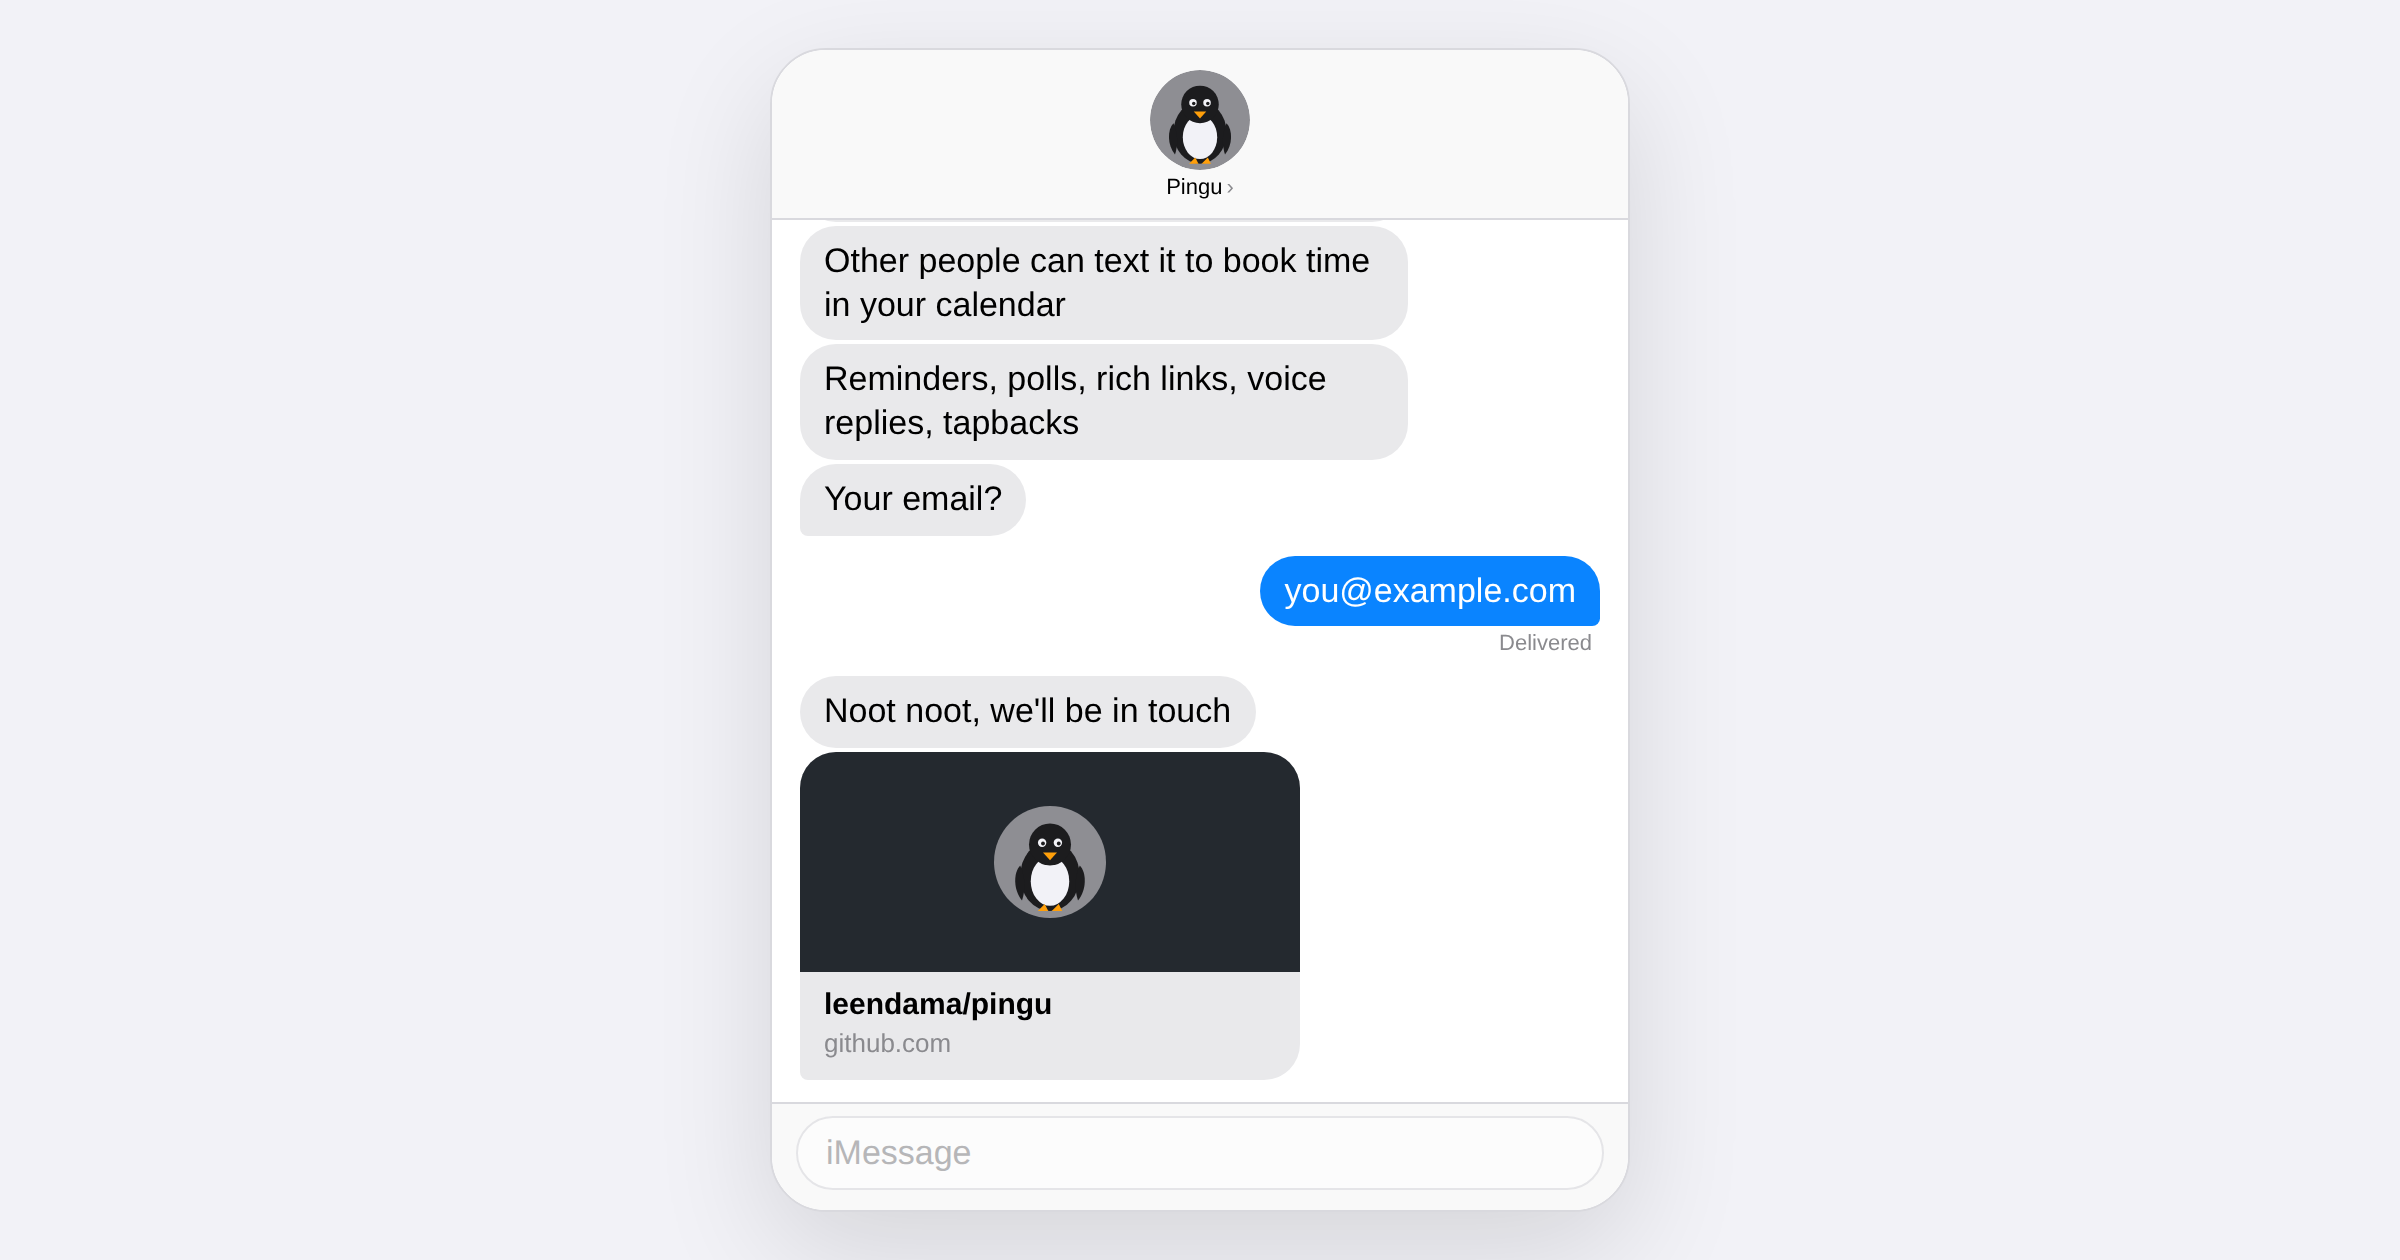
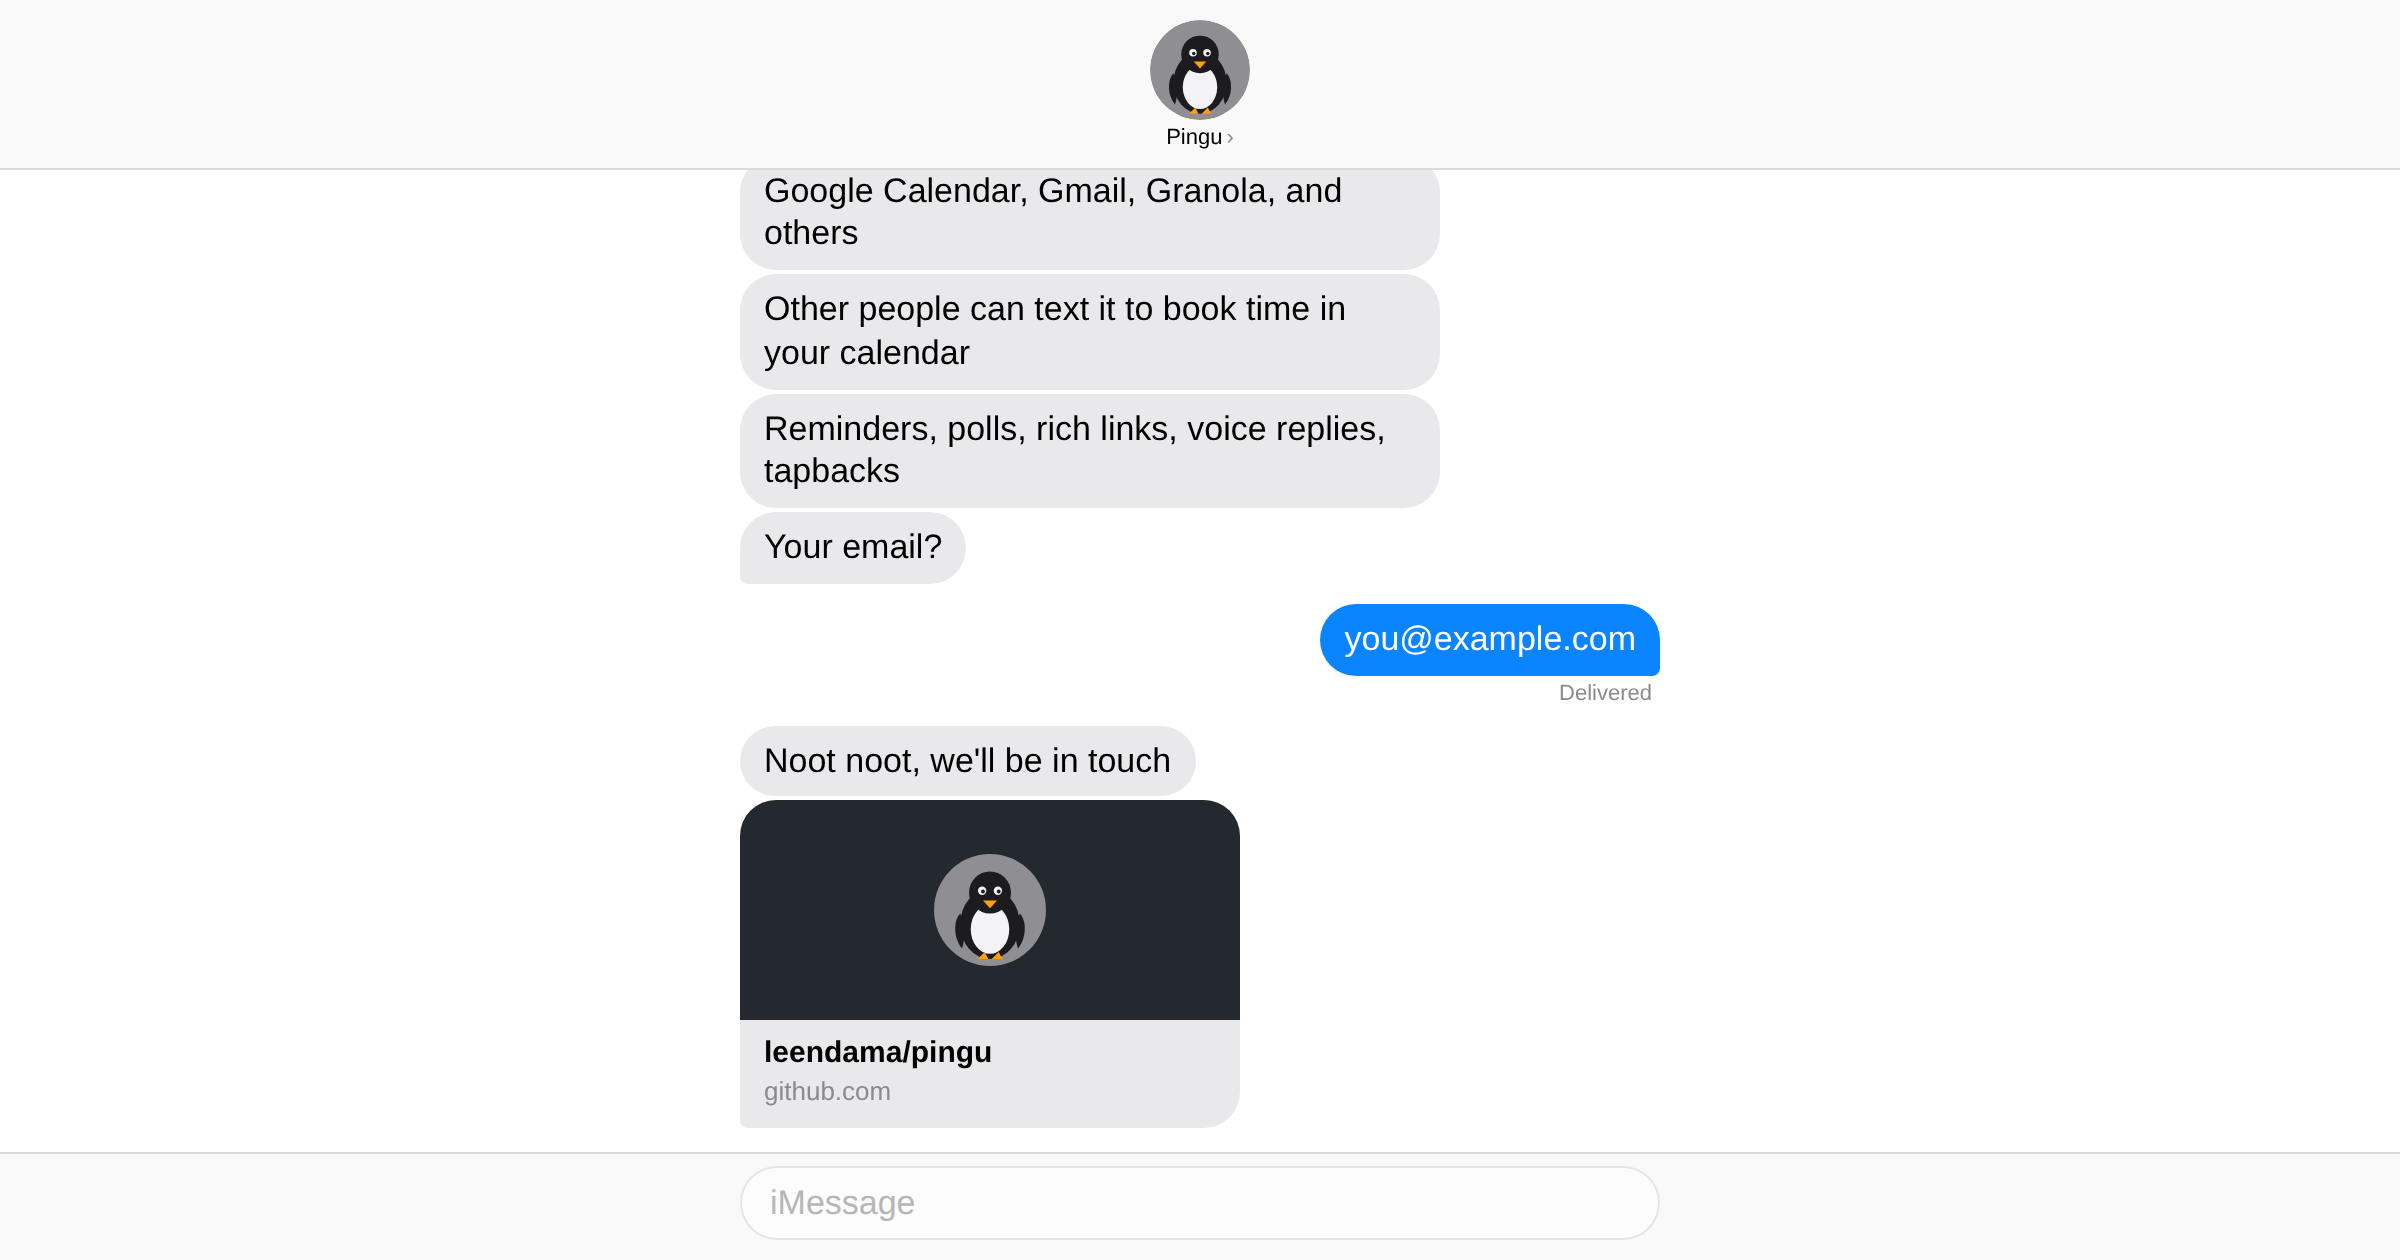
Drop the phone frame: the conversation is the page at every width
Desktop showed the thread inside a floating rounded card on a separate
ground, which reads as a mockup of the product rather than the product.
The thread now fills the viewport; one centring formula holds the bubbles
and the compose field in a 460px column so they don't stretch wide.

Claude-Session: https://claude.ai/code/session_01KTD6Zyujrk7GNEqUMP8h11

Changed region(s): [[0.2812, 0.0, 0.6875, 0.9905], [0.5, 0.1238, 0.7188, 0.9286]]

diff --git a/style.css b/style.css
@@ -2,7 +2,6 @@
 
 :root {
   color-scheme: light dark;
-  --ground: #f2f2f7;
   --chat: #ffffff;
   --bar: rgba(249, 249, 249, 0.94);
   --line: #d9d9de;
@@ -14,12 +13,13 @@
   --out-ink: #ffffff;
   --red: #ff3b30;
   --field: #ffffff;
+  --col: 460px;
+  --gutter: 14px;
   --font: -apple-system, BlinkMacSystemFont, "SF Pro Text", "Helvetica Neue", Helvetica, Arial, sans-serif;
 }
 
 @media (prefers-color-scheme: dark) {
   :root {
-    --ground: #18181b;
     --chat: #000000;
     --bar: rgba(28, 28, 30, 0.94);
     --line: #2c2c2e;
@@ -37,7 +37,7 @@ html, body { height: 100%; }
 
 body {
   margin: 0;
-  background: var(--ground);
+  background: var(--chat);
   color: var(--ink);
   font-family: var(--font);
   -webkit-text-size-adjust: 100%;
@@ -48,24 +48,7 @@ body {
   display: flex;
   flex-direction: column;
   height: 100dvh;
-  max-width: 430px;
-  margin: 0 auto;
   background: var(--chat);
-}
-
-@media (min-width: 600px) and (min-height: 600px) {
-  body { display: grid; place-items: center; }
-  .phone {
-    height: min(860px, calc(100dvh - 48px));
-    border: 1px solid var(--line);
-    border-radius: 28px;
-    overflow: hidden;
-    box-shadow: 0 20px 60px rgba(0, 0, 0, 0.12);
-  }
-
-  @media (prefers-color-scheme: dark) {
-    .phone { box-shadow: 0 20px 60px rgba(0, 0, 0, 0.5); }
-  }
 }
 
 /* Top bar */
@@ -108,7 +91,8 @@ body {
   display: flex;
   flex-direction: column;
   gap: 2px;
-  padding: 10px 14px 12px;
+  padding: 10px 0 12px;
+  padding-inline: max(var(--gutter), calc((100% - var(--col)) / 2));
   scroll-behavior: smooth;
 }
 
@@ -241,7 +225,8 @@ body {
   position: relative;
   display: flex;
   align-items: center;
-  padding: 6px 12px calc(10px + env(safe-area-inset-bottom));
+  padding: 6px 0 calc(10px + env(safe-area-inset-bottom));
+  padding-inline: max(var(--gutter), calc((100% - var(--col)) / 2));
   border-top: 1px solid var(--line);
   background: var(--bar);
   -webkit-backdrop-filter: blur(20px);
@@ -276,7 +261,7 @@ body {
 
 .send {
   position: absolute;
-  right: 17px;
+  right: calc(max(var(--gutter), calc((100% - var(--col)) / 2)) + 5px);
   top: 10px;
   width: 28px;
   height: 28px;
